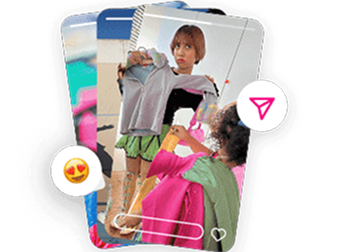
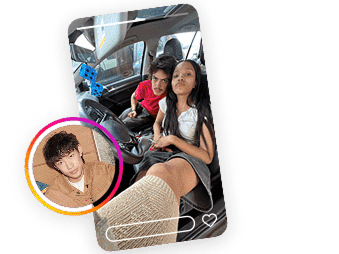
Adding footer and mobile behavior

diff --git a/assets/css/global.css b/assets/css/global.css
@@ -85,6 +85,7 @@ body{
     background-color: rgba(52, 65, 175, 1);
     color: rgba(255, 255, 255, 0.7);
     margin-top: 1.5rem;
+    cursor: pointer;
 }
 
 .content__login-space{
@@ -147,7 +148,7 @@ body{
     width: 39rem;
     height: 31rem;
     max-width: 630px;
-    max-height: 500px;
+    max-height: 280px;
     display: block;
     margin: 0 auto;
     position: relative;
@@ -168,29 +169,33 @@ body{
 .carrossel_img-1{
     background-image: url("../images/img-1.png");
     transition: 1s ease-in-out;
-    max-width: 570px;
+    max-width: 370px;
     z-index: -1;
+    justify-self: anchor-center;
 }
 
 .carrossel_img-2{
     background-image: url("../images/img-2.png");
     transition: 1s ease-in-out;
-    max-width: 570px;
+    max-width: 370px;
     z-index: -2;
+    justify-self: anchor-center;
 }
 
 .carrossel_img-3{
     background-image: url("../images/img-3.png");
     transition: 1s ease-in-out;
-    max-width: 570px;
+    max-width: 370px;
     z-index: -3;
+    justify-self: anchor-center;
 }
 
 .carrossel_img-4{
     background-image: url("../images/img-4.png");
     transition: 1s ease-in-out;
-    max-width: 570px;
+    max-width: 370px;
     z-index: -4;
+    justify-self: anchor-center;
 }
 
 .carrossel_img-move-back{
@@ -209,7 +214,7 @@ body{
         z-index: 9;
     }
     90%{
-        transform: translateX(-25rem);
+        transform: translateX(-15rem);
         opacity: 1;
     }
     100%{
@@ -248,4 +253,43 @@ body{
 
 .carrossel_img-move-back {
   animation: goLeft 4s ease-in-out forwards;
+}
+
+.footer ul{
+    margin: 5rem 1rem 2rem 1rem;
+    display: flex;
+    flex-direction: row;
+    flex-wrap: wrap;
+    align-content: center;
+    justify-content: center;
+    align-items: center;
+    gap: 1.8rem;
+}
+
+.footer ul li:hover{
+    text-decoration: underline;
+    cursor: pointer;
+}
+
+.rights{
+    padding: 1rem;
+    text-align: -webkit-center;
+    text-align: center;
+}
+
+
+@media screen and (max-width: 906px) {
+    .content__login-carrossel-wrapper{
+        max-width: 400px;
+    }
+
+    .content__login{
+        margin-top: 5rem;
+    }
+}
+
+@media screen and (max-width: 760px) {
+    .content__login-carrossel{
+        display: none;
+    }
 }

diff --git a/index.html b/index.html
@@ -62,9 +62,27 @@
         </section>
 
         <footer id="footer" class="footer">
-
+            <ul>
+                <li>Meta</li>
+                <li>About</li>
+                <li>Blog</li>
+                <li>Careers</li>
+                <li>Help</li>
+                <li>API</li>
+                <li>Privacy</li>
+                <li>Terms</li>
+                <li>Locations</li>
+                <li>Instagram Lite</li>
+                <li>Meta AI</li>
+                <li>Meta AI Articles</li>
+                <li>Topics</li>
+                <li>Upload contacts and non-users</li>
+                <li>Meta verified</li>
+            </ul>
         </footer>
-        
+        <div class="rights">
+            © 2025 Instagram from Meta
+        </div>
     </main>
 
     <script src="./assets/js/main.js"></script>
